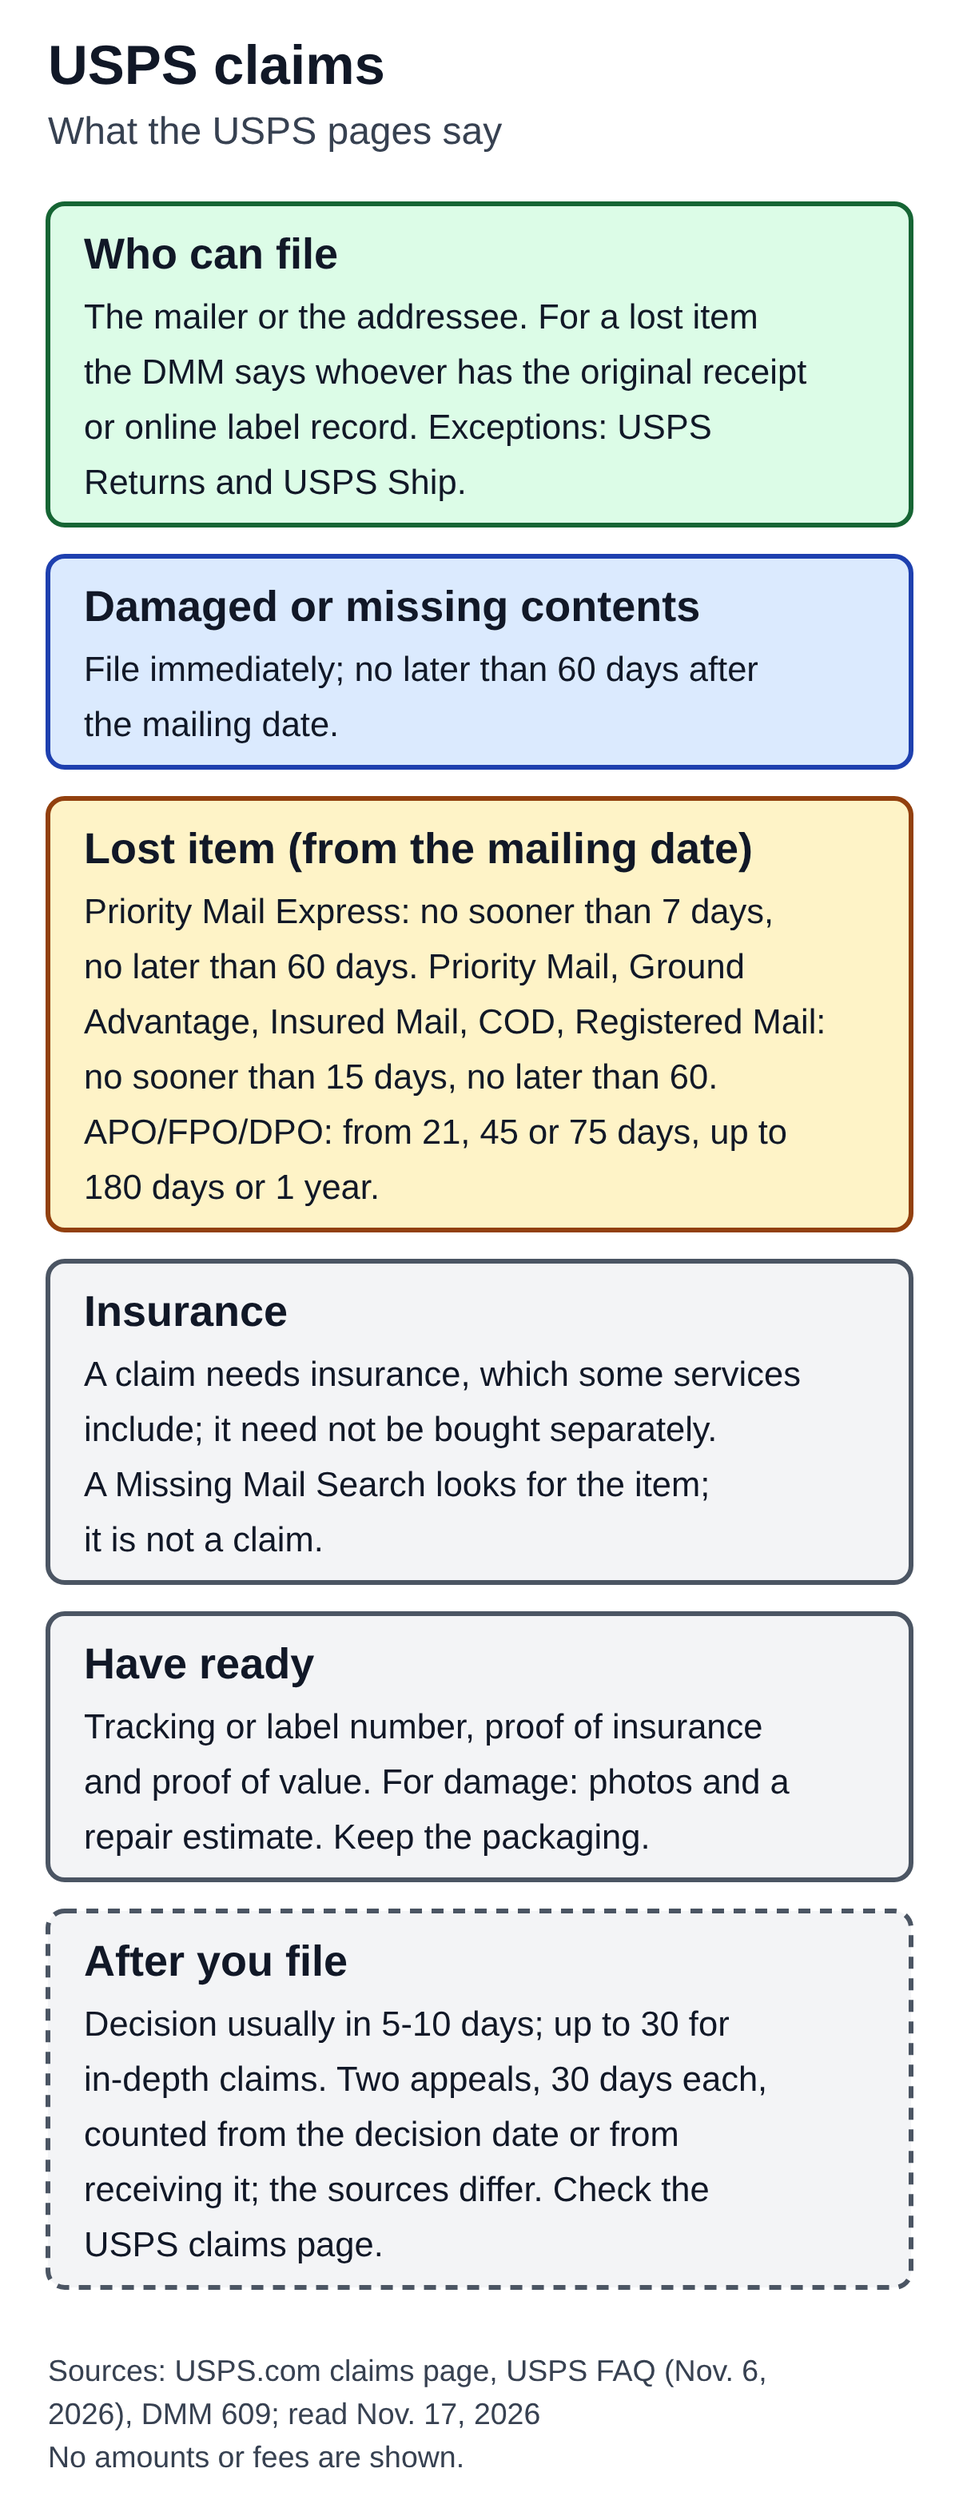
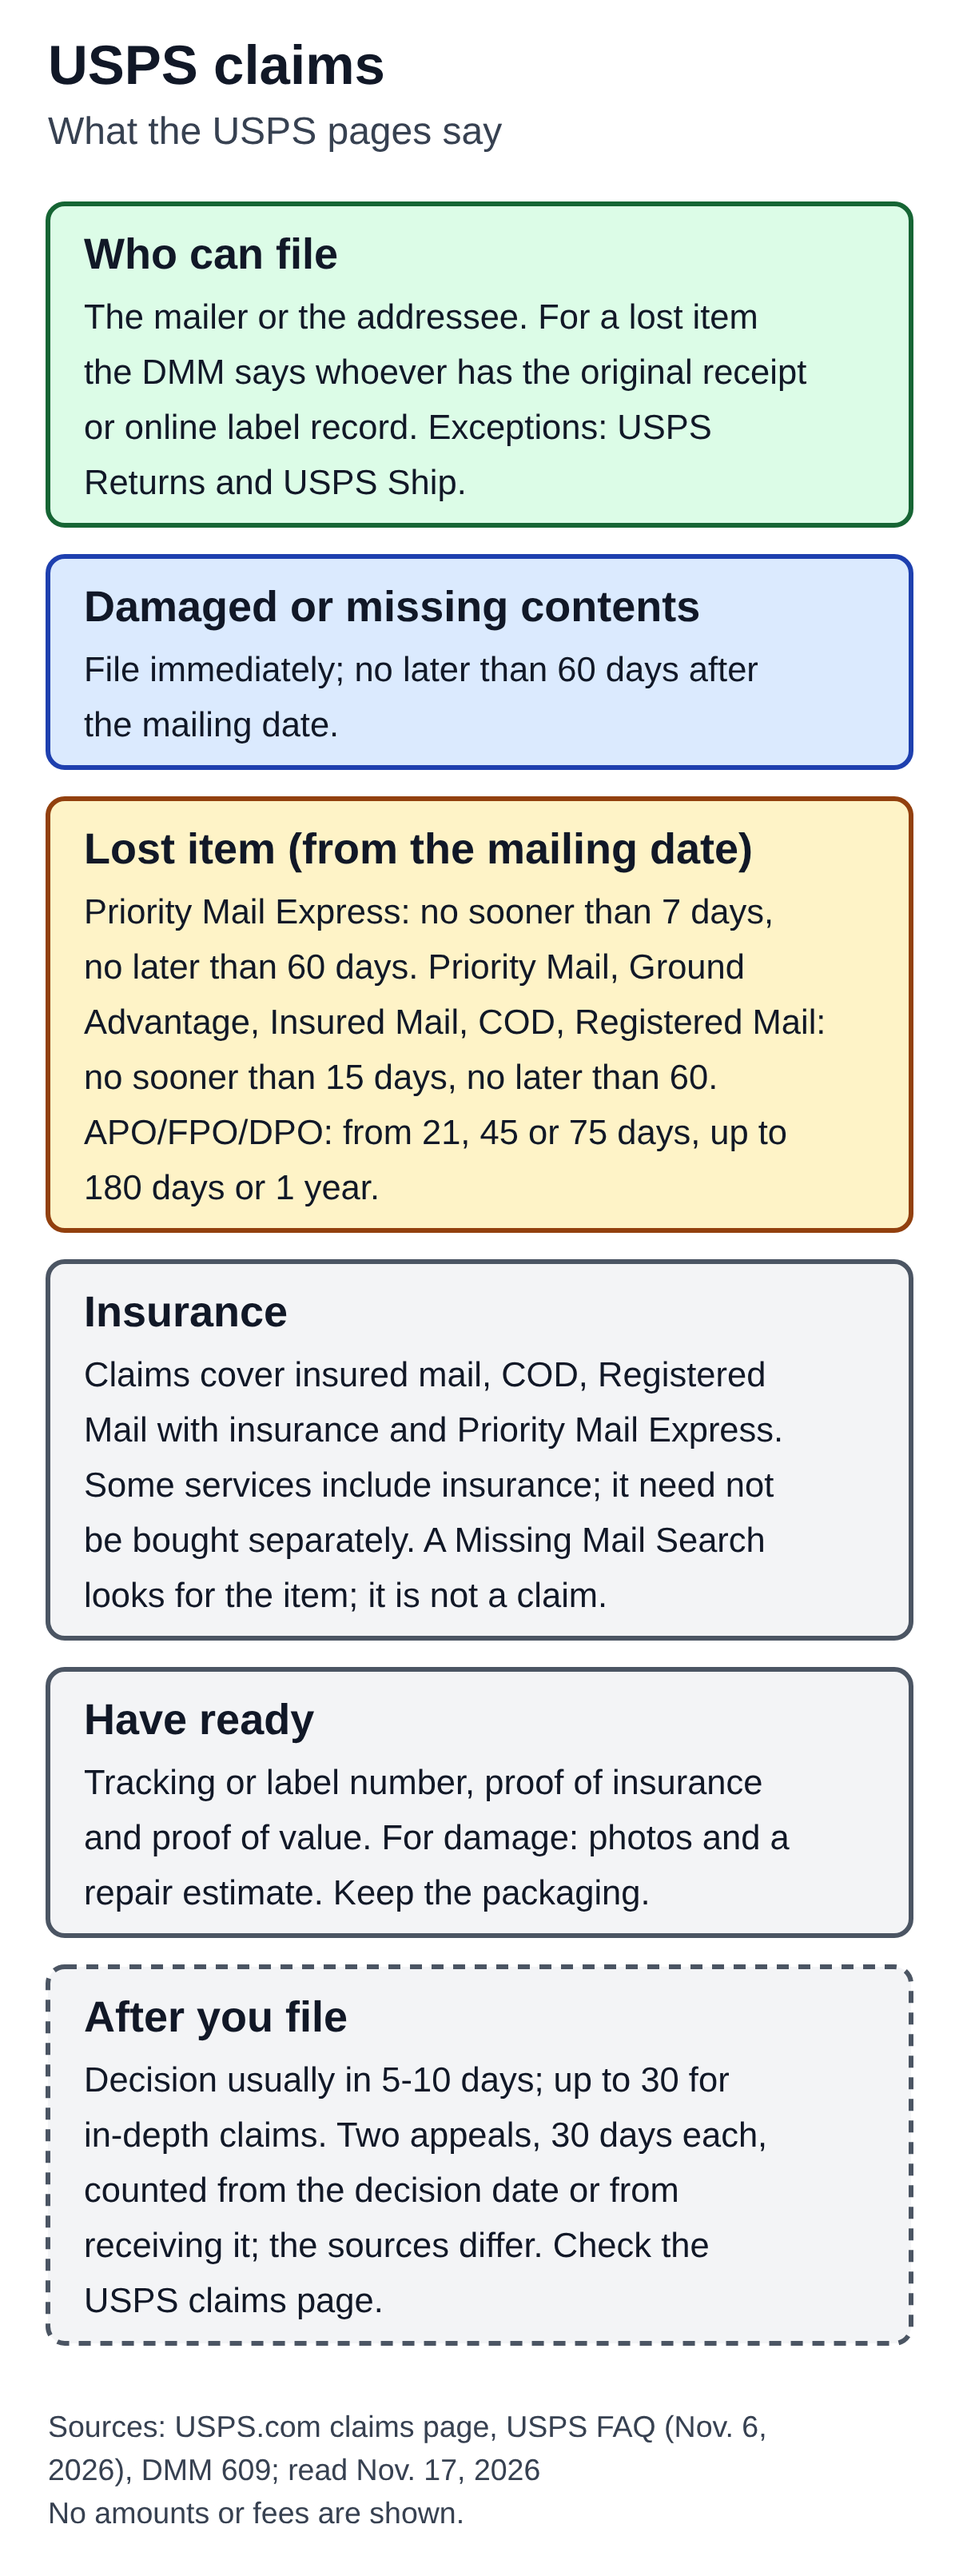
Limit the claims-insurance wording in the USPS claims draft
Diagram, alt and one body sentence now say claims cover insured mail, COD,
Registered Mail with insurance and Priority Mail Express, keep the included
insurance and Missing Mail Search lines. QA updated.

Claude-Session: https://claude.ai/code/session_01BXtGEA3Qzg6u2ejRb8jbFU

diff --git a/content/drafts/usps-claim-how-it-works.md b/content/drafts/usps-claim-how-it-works.md
@@ -8,7 +8,7 @@ status: draft
 date: 2026-11-17
 internal_link_candidates: usps-missing-mail-search-how-it-works, usps-certified-mail-how-it-works, usps-tracking-status-what-it-means (all published; all linked in the body; decide at Gate 2). The published Missing Mail article does not yet link back here; proposed link-only edit after Gate 2, see the QA record.
 image: assets/optimized/usps-claim-how-it-works.png
-image_alt: "Diagram of what USPS pages say about filing a claim, with no amounts or fees. Who can file: the mailer or the addressee; for a lost item the Domestic Mail Manual says whoever has the original receipt or online label record; exceptions for USPS Returns and USPS Ship. Damaged or missing contents: file immediately and no later than 60 days after the mailing date. Lost item, counted from the mailing date: Priority Mail Express no sooner than 7 days and no later than 60 days; Priority Mail, Ground Advantage, Insured Mail, COD and Registered Mail no sooner than 15 days and no later than 60 days; APO, FPO and DPO mail from 21, 45 or 75 days, up to 180 days or 1 year. Insurance: a claim needs insurance, which some services include and which need not be bought separately; a Missing Mail Search looks for the item and is not a claim. Have ready: tracking or label number, proof of insurance and proof of value; for damage, photos and a repair estimate; keep the packaging. After you file: a decision usually in 5 to 10 days and up to 30 for in-depth claims; two appeals of 30 days each, counted from the decision date or from receiving it, and the sources differ, so check the USPS claims page. Sources: the USPS.com claims page, the USPS FAQ dated Nov. 6, 2026 and Domestic Mail Manual section 609, read Nov. 17, 2026."
+image_alt: "Diagram of what USPS pages say about filing a claim, with no amounts or fees. Who can file: the mailer or the addressee; for a lost item the Domestic Mail Manual says whoever has the original receipt or online label record; exceptions for USPS Returns and USPS Ship. Damaged or missing contents: file immediately and no later than 60 days after the mailing date. Lost item, counted from the mailing date: Priority Mail Express no sooner than 7 days and no later than 60 days; Priority Mail, Ground Advantage, Insured Mail, COD and Registered Mail no sooner than 15 days and no later than 60 days; APO, FPO and DPO mail from 21, 45 or 75 days, up to 180 days or 1 year. Insurance: claims cover insured mail, COD, Registered Mail with insurance and Priority Mail Express; some services include insurance, which need not be bought separately; a Missing Mail Search looks for the item and is not a claim. Have ready: tracking or label number, proof of insurance and proof of value; for damage, photos and a repair estimate; keep the packaging. After you file: a decision usually in 5 to 10 days and up to 30 for in-depth claims; two appeals of 30 days each, counted from the decision date or from receiving it, and the sources differ, so check the USPS claims page. Sources: the USPS.com claims page, the USPS FAQ dated Nov. 6, 2026 and Domestic Mail Manual section 609, read Nov. 17, 2026."
 ---
 
 # USPS Claims: Filing Periods, Who Can File and What You Need
@@ -17,7 +17,7 @@ image_alt: "Diagram of what USPS pages say about filing a claim, with no amounts
 
 This article compares what three official sources say about a domestic insurance claim: the USPS.com page "File a Claim" (no update date), the USPS FAQ "Domestic Claims - The Basics" (Article 000006089, dated November 6, 2026) and section 609 of the Domestic Mail Manual (DMM), "Filing Indemnity Claims for Loss or Damage" (no update date). It also uses one line from USPS.com's "Shipping Insurance and Delivery Services" page. The wording is as of November 17, 2026. The sources overlap but are not identical, and the article shows where they differ instead of choosing one. It gives no prices, fees or payment limits. It does not cover international claims, bulk claims, or Priority Mail Express details. For a search for mail that has not arrived, see our [Missing Mail article](https://statesideexplained.com/usps-missing-mail-search-how-it-works/), which covers the search and points to USPS's claims page.
 
-![Diagram of what USPS pages say about filing a claim, with no amounts or fees. Who can file: the mailer or the addressee; for a lost item the Domestic Mail Manual says whoever has the original receipt or online label record; exceptions for USPS Returns and USPS Ship. Damaged or missing contents: file immediately and no later than 60 days after the mailing date. Lost item, counted from the mailing date: Priority Mail Express no sooner than 7 days and no later than 60 days; Priority Mail, Ground Advantage, Insured Mail, COD and Registered Mail no sooner than 15 days and no later than 60 days; APO, FPO and DPO mail from 21, 45 or 75 days, up to 180 days or 1 year. Insurance: a claim needs insurance, which some services include and which need not be bought separately; a Missing Mail Search looks for the item and is not a claim. Have ready: tracking or label number, proof of insurance and proof of value; for damage, photos and a repair estimate; keep the packaging. After you file: a decision usually in 5 to 10 days and up to 30 for in-depth claims; two appeals of 30 days each, counted from the decision date or from receiving it, and the sources differ, so check the USPS claims page. Sources: the USPS.com claims page, the USPS FAQ dated Nov. 6, 2026 and Domestic Mail Manual section 609, read Nov. 17, 2026.](assets/optimized/usps-claim-how-it-works.png)
+![Diagram of what USPS pages say about filing a claim, with no amounts or fees. Who can file: the mailer or the addressee; for a lost item the Domestic Mail Manual says whoever has the original receipt or online label record; exceptions for USPS Returns and USPS Ship. Damaged or missing contents: file immediately and no later than 60 days after the mailing date. Lost item, counted from the mailing date: Priority Mail Express no sooner than 7 days and no later than 60 days; Priority Mail, Ground Advantage, Insured Mail, COD and Registered Mail no sooner than 15 days and no later than 60 days; APO, FPO and DPO mail from 21, 45 or 75 days, up to 180 days or 1 year. Insurance: claims cover insured mail, COD, Registered Mail with insurance and Priority Mail Express; some services include insurance, which need not be bought separately; a Missing Mail Search looks for the item and is not a claim. Have ready: tracking or label number, proof of insurance and proof of value; for damage, photos and a repair estimate; keep the packaging. After you file: a decision usually in 5 to 10 days and up to 30 for in-depth claims; two appeals of 30 days each, counted from the decision date or from receiving it, and the sources differ, so check the USPS claims page. Sources: the USPS.com claims page, the USPS FAQ dated Nov. 6, 2026 and Domestic Mail Manual section 609, read Nov. 17, 2026.](assets/optimized/usps-claim-how-it-works.png)
 
 ## Who can file
 
@@ -48,7 +48,7 @@ The three sources do not match in every detail. The DMM chart lumps domestic Pri
 
 USPS.com says eligible items include Priority Mail Express items and other insured mail, COD items, and Registered Mail with insurance, and that "your insurance may have been included with the USPS service or purchased separately." USPS.com's insurance page says Priority Mail and USPS Ground Advantage include insurance (the page gives the amount) when the domestic shipment has an applicable USPS Tracking barcode; the [tracking status article](https://statesideexplained.com/usps-tracking-status-what-it-means/) explains tracking statuses. DMM section 503 says: "Except for Priority Mail pieces with included insurance, no insurance coverage is provided when purchasing Certified Mail." Our [Certified Mail article](https://statesideexplained.com/usps-certified-mail-how-it-works/) covers that service.
 
-Insurance does not have to be bought separately: as quoted above, it may have been included with the service. What the sources rule out is a claim for an item with no insurance at all. USPS.com says USPS "may not legally pay compensation for uninsured lost or damaged articles." The FAQ says that "if insurance is not purchased at the time of mailing," USPS "is unable to honor any requests to be compensated"; the same FAQ lists Priority Mail and USPS Ground Advantage as including insurance in the price of postage, and this article does not reconcile the two wordings. Your receipt or label record is what shows whether the package was insured (see below). A Missing Mail Search, which USPS.com offers for uninsured mail that is missing or delayed, is a search for the item and not a claim for payment.
+Insurance does not have to be bought separately: as quoted above, it may have been included with the service. The claims the sources describe are for insured mail, COD items, Registered Mail with insurance and Priority Mail Express items (USPS.com's list of eligible items and DMM 609.1.1), so the insurance requirement below applies to those; COD and Registered Mail rules are only touched on in this article. What the sources rule out is a claim for an item with no insurance at all. USPS.com says USPS "may not legally pay compensation for uninsured lost or damaged articles." The FAQ says that "if insurance is not purchased at the time of mailing," USPS "is unable to honor any requests to be compensated"; the same FAQ lists Priority Mail and USPS Ground Advantage as including insurance in the price of postage, and this article does not reconcile the two wordings. Your receipt or label record is what shows whether the package was insured (see below). A Missing Mail Search, which USPS.com offers for uninsured mail that is missing or delayed, is a search for the item and not a claim for payment.
 
 ## What to have ready
 

diff --git a/editorial/qa/usps-claim-how-it-works.md b/editorial/qa/usps-claim-how-it-works.md
@@ -72,3 +72,10 @@ The user asked that the two posts be linked to each other. This post links to th
 5. **Length.** The reviewer said the length need not be cut; the section order (When to file, What to have ready) is unchanged and the nonpayable section keeps each source's conditions. The article is now about 2,090 body words after the fixes.
 
 Changed parts only: the meta description, the Does the item need insurance section, the appeals paragraph, the What the sources do not say scope sentence, Sources, the three diagram cards (lost item, insurance, after you file) and the alt. Image after the change: PNG 546,819 bytes `588a59fc84484885`, SVG 4,442 bytes `07c9dfeb39040dd9` (C2PA stripped; render check `[]`, crops viewed). Link-back to the Missing Mail article: approved by the reviewer after both posts are published; to be recorded (location and result) when applied. Not published.
+
+## Gate 2 re-check on `754b40d`: B FIX applied (2026-11-17)
+
+The reviewer passed the appeal-clock and lost-claim wording and asked for the Insurance card and alt sentence "A claim needs insurance" to be limited to the claims it applies to, so that COD and the other listed claim types are not lost, while keeping the "some services include insurance" and Missing Mail Search lines.
+- Diagram card "Insurance": "Claims cover insured mail, COD, Registered Mail with insurance and Priority Mail Express. Some services include insurance; it need not be bought separately. A Missing Mail Search looks for the item; it is not a claim." (listed claim types from USPS.com's eligible items and DMM 609.1.1: "insured mail, COD items, Registered Mail with postal insurance, or Priority Mail Express"). The sentence "A claim needs insurance" no longer appears in the diagram, alt or body.
+- Alt: same sentence structure. Body (Does the item need insurance?): one sentence added saying the claims described are for those four types and that COD and Registered Mail rules are only touched on; the rest of the section is unchanged.
+Image: PNG 574,068 bytes `51da1b630f07cb4e`, SVG 4,570 bytes `e53b69e1ce069eeb` (C2PA stripped; render check `[]`, crop viewed). Changed parts only: the Insurance card, the alt and one sentence of the body. Not published.
